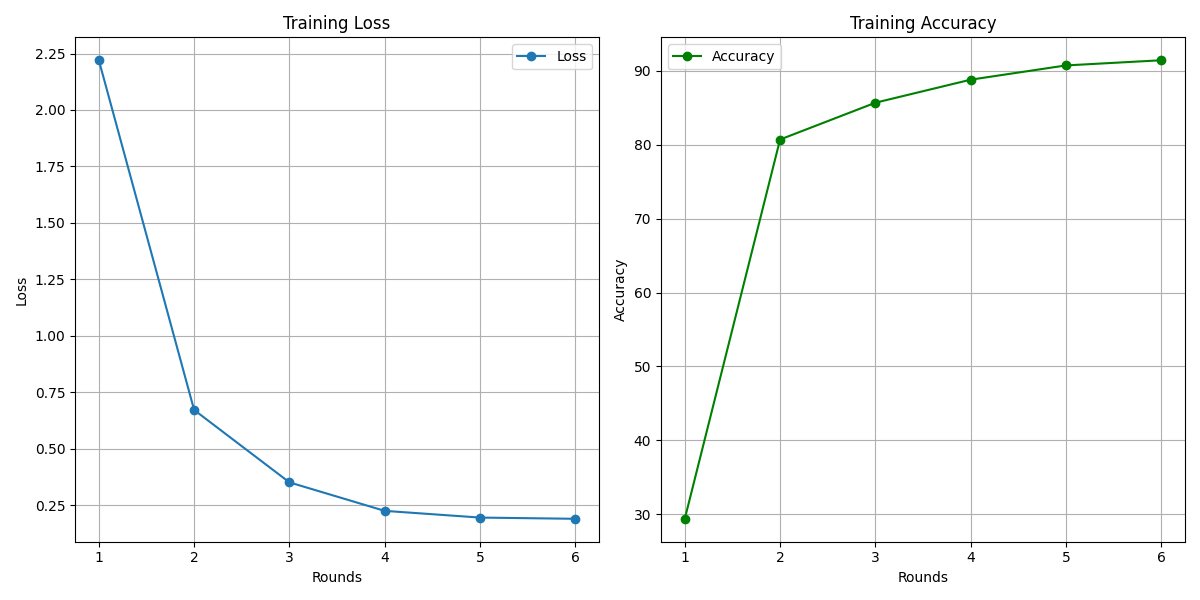
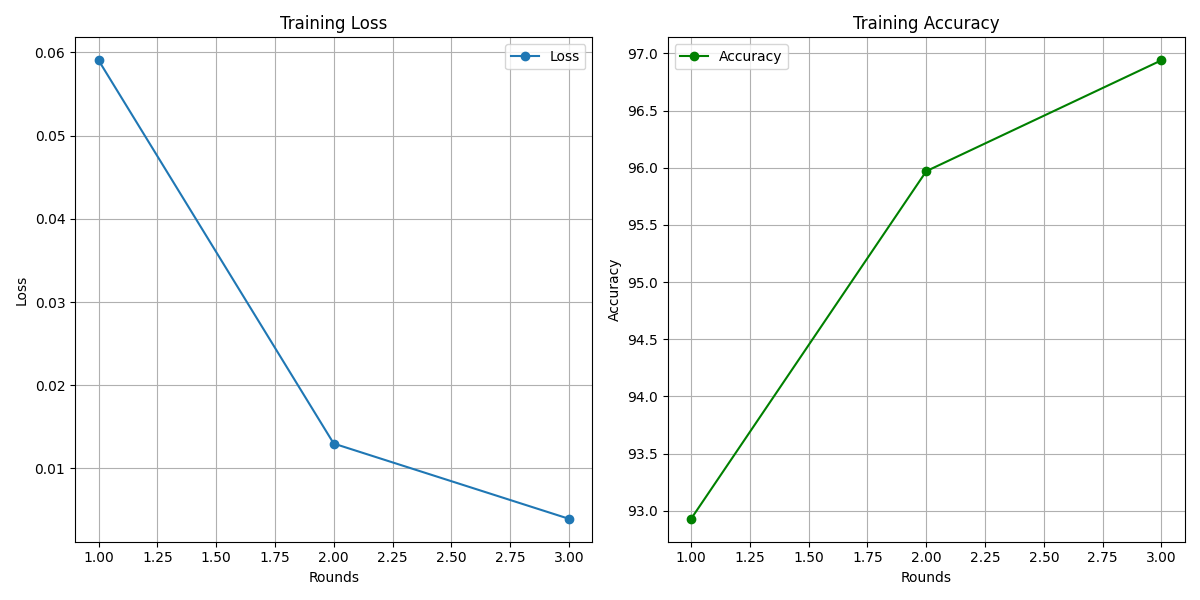
Fix: close socket

diff --git a/federated/fedavg.py b/federated/fedavg.py
@@ -41,70 +41,70 @@ def aggregate(global_model, client_updates):
 # 7. server gửi mô hình toàn cục cho các thằng còn lại
 # 8. lặp lại từ bước 1
 
-def fedavg(clients, server, rounds):
-    """
-    Thuật toán FedAvg với tính toán thời gian và ghi lại loss/accuracy.
-    """
-    loss_history = []
-    accuracy_history = []
+# def fedavg(clients, server, rounds):
+#     """
+#     Thuật toán FedAvg với tính toán thời gian và ghi lại loss/accuracy.
+#     """
+#     loss_history = []
+#     accuracy_history = []
 
-    start_time = time.time()  # Bắt đầu tính thời gian
+#     start_time = time.time()  # Bắt đầu tính thời gian
 
-    round_time = 0
-    prev_loss = 0
-    convergence = False
-    while not convergence:
-        print(f"\n--- Round {round_time} ---")
-        # # Gửi mô hình đã được tách tới các client
-        # for client in clients:
-        #     client.set_model(server.global_model)  # Gửi bản sao của mô hình cho client
+#     round_time = 0
+#     prev_loss = 0
+#     convergence = False
+#     while not convergence:
+#         print(f"\n--- Round {round_time} ---")
+#         # # Gửi mô hình đã được tách tới các client
+#         # for client in clients:
+#         #     client.set_model(server.global_model)  # Gửi bản sao của mô hình cho client
 
-        # 1. Thu thập mô hình từ các client
-        client_updates = []
+#         # 1. Thu thập mô hình từ các client
+#         client_updates = []
         
-        # Mô phỏng song song
-        training_clients = np.random.choice(clients, CONFIG["num_client_training"], replace=False)
-        with ThreadPoolExecutor() as executor:
-            futures = {}
-            # Gửi các tác vụ huấn luyện lên các thread, kèm theo client_id
-            for client in training_clients:
-                futures[executor.submit(client.train)] = client.client_id  # Lưu trữ future kèm theo client_id
+#         # Mô phỏng song song
+#         training_clients = np.random.choice(clients, CONFIG["num_client_training"], replace=False)
+#         with ThreadPoolExecutor() as executor:
+#             futures = {}
+#             # Gửi các tác vụ huấn luyện lên các thread, kèm theo client_id
+#             for client in training_clients:
+#                 futures[executor.submit(client.train)] = client.client_id  # Lưu trữ future kèm theo client_id
 
-            # Chờ kết quả và thu thập mô hình từ từng client
-            for future in futures:
-                client_model_state = future.result()  # Lấy kết quả huấn luyện từ client
-                client_id = futures[future]  # Lấy client_id từ dictionary
-                print(f"Client {client_id} finished training.")
-                client_updates.append(client_model_state)
+#             # Chờ kết quả và thu thập mô hình từ từng client
+#             for future in futures:
+#                 client_model_state = future.result()  # Lấy kết quả huấn luyện từ client
+#                 client_id = futures[future]  # Lấy client_id từ dictionary
+#                 print(f"Client {client_id} finished training.")
+#                 client_updates.append(client_model_state)
 
-        # 2. Tổng hợp các mô hình trên server
-        print("Aggregating updates on the server...")
-        new_state_param_model = aggregate(server.global_model, client_updates)
-        server.global_model.load_state_dict(new_state_param_model)
+#         # 2. Tổng hợp các mô hình trên server
+#         print("Aggregating updates on the server...")
+#         new_state_param_model = aggregate(server.global_model, client_updates)
+#         server.global_model.load_state_dict(new_state_param_model)
 
-        # 3. Đánh giá trên server
-        loss, accuracy = server.evaluate()
-        loss_history.append(loss)
-        accuracy_history.append(accuracy)
-        print(f"Server evaluation: Loss = {loss:.4f}, Accuracy = {accuracy:.2f}%")
+#         # 3. Đánh giá trên server
+#         loss, accuracy = server.evaluate()
+#         loss_history.append(loss)
+#         accuracy_history.append(accuracy)
+#         print(f"Server evaluation: Loss = {loss:.4f}, Accuracy = {accuracy:.2f}%")
 
-        # 4. Kiểm tra hội tụ
-        if abs(loss-prev_loss) < CONFIG["convergence_threshold"] and loss < 0.5:
-            convergence = True
-            break
-        prev_loss = loss
-        round_time += 1
+#         # 4. Kiểm tra hội tụ
+#         if abs(loss-prev_loss) < CONFIG["convergence_threshold"] and loss < 0.5:
+#             convergence = True
+#             break
+#         prev_loss = loss
+#         round_time += 1
 
-        # 5. Gui mô hình toàn cục cho các client
-        with ThreadPoolExecutor() as executor:
-            # Gửi các tác vụ huấn luyện lên các thread, kèm theo client_id
-            for client in clients:
-                executor.submit(client.set_model, server.global_model.state_dict())
+#         # 5. Gui mô hình toàn cục cho các client
+#         with ThreadPoolExecutor() as executor:
+#             # Gửi các tác vụ huấn luyện lên các thread, kèm theo client_id
+#             for client in clients:
+#                 executor.submit(client.set_model, server.global_model.state_dict())
 
 
-    end_time = time.time()  # Kết thúc tính thời gian
-    total_time = end_time - start_time
-    print(f"\nTraining completed in {total_time:.2f} seconds.")
+#     end_time = time.time()  # Kết thúc tính thời gian
+#     total_time = end_time - start_time
+#     print(f"\nTraining completed in {total_time:.2f} seconds.")
 
-    # 5. Vẽ đồ thị loss và accuracy
-    plot_metrics(loss_history, accuracy_history)
+#     # 5. Vẽ đồ thị loss và accuracy
+#     plot_metrics(loss_history, accuracy_history)

diff --git a/server.py b/server.py
@@ -1,14 +1,16 @@
 import torch.nn.functional as F
-from federated.fedavg import aggregate
 import torch
 import socket
 import pickle
 import threading
-from utils.data_utils import get_dataloaders, get_test_dataloader, choose_dataset
+from utils.data_utils import get_test_dataloader, choose_dataset
 from utils.parser import args_parser
 from utils.communication import send_message, receive_message
+from utils.plot import plot_metrics
 from models.cnn_model import CNNModel
 from config import CONFIG
+from federated.fedavg import aggregate
+
 
 #Server có 2 thread 
 # 1 thread để nghe các client regist
@@ -24,7 +26,6 @@ class Server:
         self.server_socket = socket.socket(socket.AF_INET, socket.SOCK_STREAM)
         self.server_socket.bind((self.host, self.port))
         self.server_socket.listen(CONFIG["num_clients"])
-        self.conn = None
 
     def update_model(self, client_updates):
         """
@@ -59,11 +60,11 @@ class Server:
         print(self.clients)
         disconnected_clients = []
         for client_id, (client_host, client_port) in self.clients.items():
-            print((client_host, client_port))
+            # print((client_host, client_port))
             try:
                 # print("Vô đây chưa?")
                 client_conn = socket.create_connection((client_host, client_port)) 
-                # print("Chưa create connection được")
+                # print(;"Chưa create connection được")
                 send_message(client_conn, "PING")
                 print("Sent PING")
                 response = receive_message(client_conn)
@@ -72,7 +73,7 @@ class Server:
                 client_conn.close()
             except:
                 disconnected_clients.append(client_id)
-        print(disconnected_clients)
+        # print(disconnected_clients)
         self.clients_connect = self.clients.copy()
         # Loại bỏ client mất kết nối
         for client_id in disconnected_clients:
@@ -105,37 +106,27 @@ class Server:
             except pickle.UnpicklingError:
                 print(f"Failed to unpickle model params from client.")
             client_conn.close()
-        return aggregated_params
-        # for _ in range(len(self.clients)): 
-        #     # self.conn, addr = self.server_socket.accept()
-        #     model_params = receive_message(conn)
-        #     try:
-        #         aggregated_params.append(model_params)
-        #     except pickle.UnpicklingError:
-        #         print(f"Failed to unpickle model params from client.")
-
-        #     conn.close()
-        # return aggregated_params    
-
+        return aggregated_params   
 
     def listen_clients(self):
-        """Lắng nghe các client."""
+        """Lắng nghe các client REGIST."""
         print("Listening for clients...")
         while True:
-            self.conn, addr = self.server_socket.accept()
-            print(f"Connection from {addr}")
+            conn, addr = self.server_socket.accept()
+            # print(f"Connection from {addr}")
 
             try:
-                message = receive_message(self.conn)
-                print(message)
+                message = receive_message(conn)
+                # print(message)
                 if message == "REGIST":
-                    client_info = receive_message(self.conn)
+                    client_info = receive_message(conn)
                     client_id, (client_host, client_port) = list(client_info.items())[0]
                     self.clients[client_id] = (client_host, client_port)
                     print(f"Client {client_id} registered from {(client_host, client_port)}")
 
             except Exception as e:
                 print(f"Error receiving client data: {e}")
+            conn.close()
 
 
     def start(self):
@@ -144,23 +135,25 @@ class Server:
 
         threading.Thread(target=self.listen_clients, daemon=True).start()
 
-        while True:
-            input("Press Enter to start Federated Learning...\n")
+        loss_history = []
+        accuracy_history = []
+        ######################################
+        while input("Press Enter to start Federated Learning...\n") != "exit":
             self.ping_clients()
             client_conns = self.send_model(self.global_model.state_dict())
             client_updates = self.receive_model_updates(client_conns)
             updated_model = self.update_model(client_updates)
             self.global_model.load_state_dict(updated_model)
             loss, accuracy = self.evaluate()
+            loss_history.append(loss)
+            accuracy_history.append(accuracy)
             print(f"Server evaluation: Loss = {loss:.4f}, Accuracy = {accuracy:.2f}%")
+        
+        plot_metrics(loss_history, accuracy_history)
 
 if __name__ == "__main__":
     args = args_parser()
     train_dataset, test_dataset = choose_dataset(args.dataset)
-    # train_dataloader = get_dataloaders(train_dataset, 
-    #                                   CONFIG["num_clients"], 
-    #                                   CONFIG["batch_size"], 
-    #                                   args.iid)
     test_dataloader = get_test_dataloader(test_dataset, 
                                           CONFIG["batch_size"])
 

diff --git a/client.py b/client.py
@@ -42,7 +42,7 @@ class Client:
                 loss_epoch = loss_fn(output, target)
                 loss_epoch.backward()
                 optimizer.step()
-            print(f"Epoch {epoch}/{CONFIG['epochs']} - Loss: {loss_epoch.item()}")
+            print(f"Epoch {epoch+1}/{CONFIG['epochs']} - Loss: {loss_epoch.item()}")
         # Trả về trạng thái của mô hình sau khi huấn luyện
         return self.model.state_dict()
     
@@ -101,7 +101,7 @@ class Client:
         if server_conn:
             print("Connected to server.")
             self.send_to_server(server_conn,"REGIST")
-            print("Sent Regist")
+            # print("Sent Regist")
             self.send_to_server(server_conn,{self.client_id: (self.client_host, self.client_port)})
             print("Sent client info")
             server_conn.close()
@@ -109,16 +109,19 @@ class Client:
         """
         Server ping.
         """
-        print("Truoc khi tạo connect ping")
+        # print("Truoc khi tạo connect ping")
         client_conn, addr = self.client_socket.accept()
-        print("Sau khi tạo connect ping")
+        # print("Sau khi tạo connect ping")
         
-        data = receive_message(client_conn)
-        print("haha")
+        try:
+            data = receive_message(client_conn)
+            print(f"Client {self.client_id} received: {data}")
+        except Exception as e:
+            print(f"Error receiving message on Client {self.client_id}: {e}")
         print(data)
         if data == "PING":
             self.send_to_server(client_conn,"PONG")
-            print("Pong sent")
+            # print("Pong sent")
         else:
             self.send_to_server(client_conn,"ERROR")
             print("Something went wrong with the server.")
@@ -127,7 +130,7 @@ class Client:
         self.set_model(self.receive_model_from_server(client_conn))
         self.train()
         self.send_to_server(client_conn,self.model.state_dict())
-        # self.disconnect_from_server(client_conn)
+        self.disconnect_from_server(client_conn)
             
         print(f"Client {self.client_id} finished training and disconnected.")
 
@@ -138,5 +141,5 @@ if __name__ == "__main__":
                                       CONFIG["num_clients"], 
                                       CONFIG["batch_size"], 
                                       args.iid)
-    client = Client(client_id=args.client_id, model=CNNModel(),dataset= train_dataloader[args.client_id],client_port=0)
+    client = Client(client_id=args.client_id, model=CNNModel(),dataset= train_dataloader[args.client_id])
     client.start()

diff --git a/federated/extension.py b/federated/extension.py
@@ -1,0 +1,13 @@
+import syft as sy
+
+def encrypt_model(model, workers):
+    """
+    Mã hóa mô hình sử dụng PySyft Additive Secret Sharing.
+    """
+    return model.share(*workers)
+
+def decrypt_model(model):
+    """
+    Giải mã mô hình sau khi tổng hợp.
+    """
+    return model.get()

diff --git a/README.md b/README.md
@@ -23,10 +23,10 @@ Chạy và plot về **Training Accuracy, Total training time, encryption time, 
 
 
 ## Task
-Chọn model theo paper người khác.
-Có cần chạy với nhiều %client khác nhau và plot ra không?
+Chọn model theo paper người khác.\
+Có cần chạy với nhiều %client khác nhau và plot ra không?\
 <!-- Coi lại việc huấn luyện, tại sao hội tụ bị dao động -->
-Chiến lược chọn client như thế nào?
-tích hợp zkP với PairwiseMasking
-đôi khi bị deadlock khi Ping
-tại sao nhiều client chưa được
+Chiến lược chọn client như thế nào?\
+tích hợp zkP với PairwiseMasking\
+đôi khi bị deadlock khi Ping ->*2 clients, 3 clients đã ổn*\
+Chưa plot thời gian tổng hợp, thời gian training\
